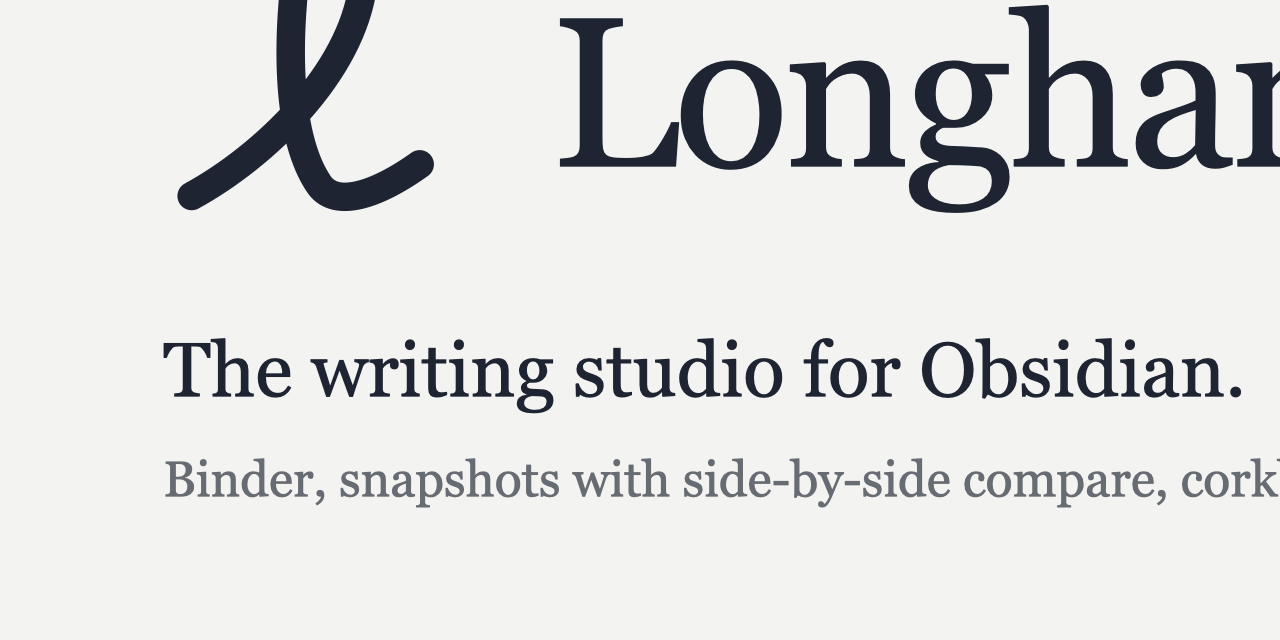
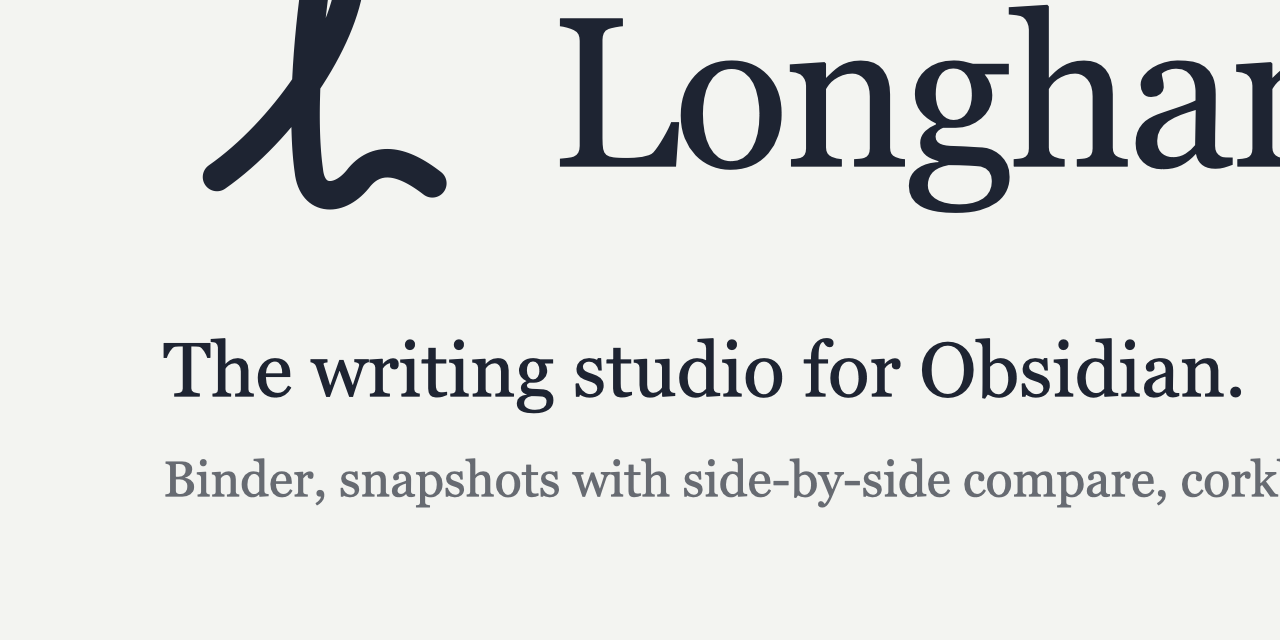
feat(brand): adopt the flourish mark, reserve the nib for the assistant

diff --git a/index.html b/index.html
@@ -216,7 +216,7 @@
 <body>
 <div class="wrap">
   <header>
-    <div class="name"><svg viewBox="0 0 100 100" aria-hidden="true"><path d="M10 84 C 32 72, 60 46, 64 18 C 66 4, 44 4, 42 22 C 40 46, 42 68, 50 80 C 55 88, 68 84, 82 74" fill="none" stroke="currentColor" stroke-width="10" stroke-linecap="round" stroke-linejoin="round"/></svg>Longhand</div>
+    <div class="name"><svg viewBox="0 0 100 100" aria-hidden="true"><path d="M18 78 C 38 64, 58 36, 60 16 C 61 8, 51 8, 49 18 C 46 40, 45 62, 47 76 C 48 86, 57 86, 63 78 C 69 71, 77 73, 86 80" fill="none" stroke="currentColor" stroke-width="10" stroke-linecap="round" stroke-linejoin="round"/></svg>Longhand</div>
     <nav>
       <a href="https://github.com/grassclaw/longhand">Plugin</a>
       <a href="https://github.com/grassclaw/scrivener-to-obsidian">Importer</a>

diff --git a/brand/README.md b/brand/README.md
@@ -4,16 +4,18 @@ Everything needed to represent Longhand consistently. Use the files here rather 
 
 ## The mark
 
-A single cursive ℓ, drawn in one stroke with round ends. It is the first letter of the name written the way the name describes: by hand, in full. It works from 16 pixels up and needs no container.
+A cursive ℓ drawn in one stroke with round ends, ending in a small flourish. It is the first letter of the name written the way the name describes: by hand, in full. It works from 16 pixels up and needs no container. Chosen 2026-09-11 from the rounds kept in `exploration/`.
 
 | File | Use |
 |---|---|
 | `logo/longhand-mark.svg` | The mark in ink on any light ground. |
 | `logo/longhand-mark-paper.svg` | The mark in paper colour for dark grounds. |
 | `logo/longhand-tile.svg` | The mark on a rounded ink tile. App icons, avatars, favicons at 32 px and up. |
+| `logo/longhand-tile-paper.svg` | The tile in paper with a hairline, for light grounds. |
 | `logo/favicon.svg` | Heavier stroke on the tile, for 16 to 32 px. |
 | `logo/longhand-lockup.svg` | Mark plus wordmark, ink. The wordmark is live text set in Newsreader with Georgia fallback; convert to outlines before sending to print. |
 | `logo/longhand-lockup-paper.svg` | Same, for dark grounds. |
+| `logo/quill-mark.svg`, `logo/quill-tile.svg` | Reserved for the Longhand assistant, the in-vault AI helper, if and when it ships. A pen nib over a line of writing. Not a substitute for the mark; never use it to represent Longhand itself. |
 | `social/social-preview.png` | 1280 by 640 GitHub social preview. Rendered from `social-preview.svg`; the rendered copy used the fallback serif, so re-export from a browser with Newsreader loaded if it matters. |
 
 Clear space around the mark: at least the width of the loop on every side. Never stretch it, outline it, add a shadow, or set it in any colour other than ink or paper.
